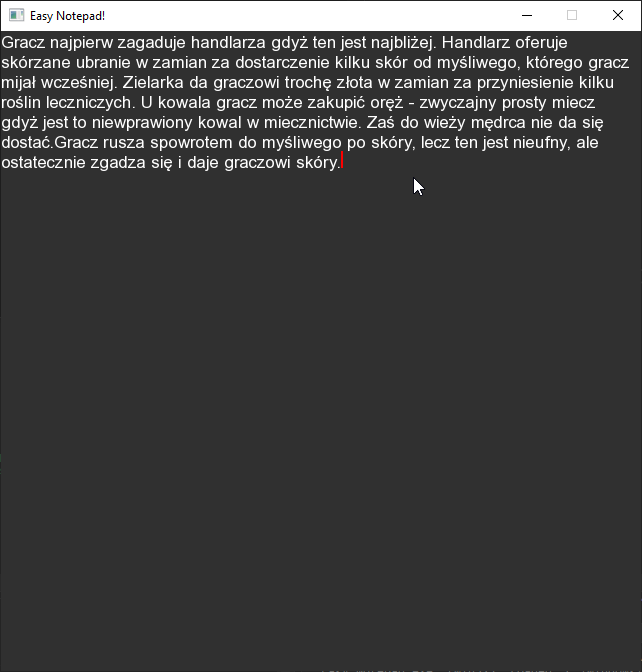
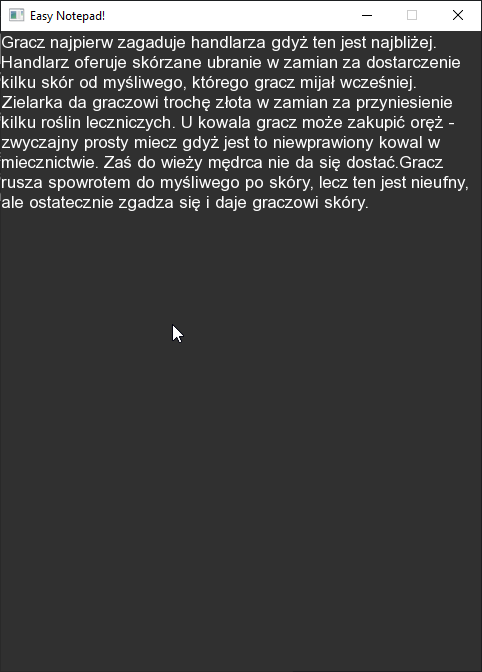
update

diff --git a/Easy Notepad/main.cpp b/Easy Notepad/main.cpp
@@ -267,7 +267,7 @@ sf::Vector2i getCursorFromIndex(int index) {
 int main()
 {
 
-    sf::View view(sf::FloatRect(0, 0, 640, 640));
+    sf::View view(sf::FloatRect(0, 0, 480, 640));
     window = new sf::RenderWindow(sf::VideoMode(view.getSize().x, view.getSize().y), "Easy Notepad!", sf::Style::Titlebar | sf::Style::Close);
 
     font.loadFromFile("arial.ttf");
